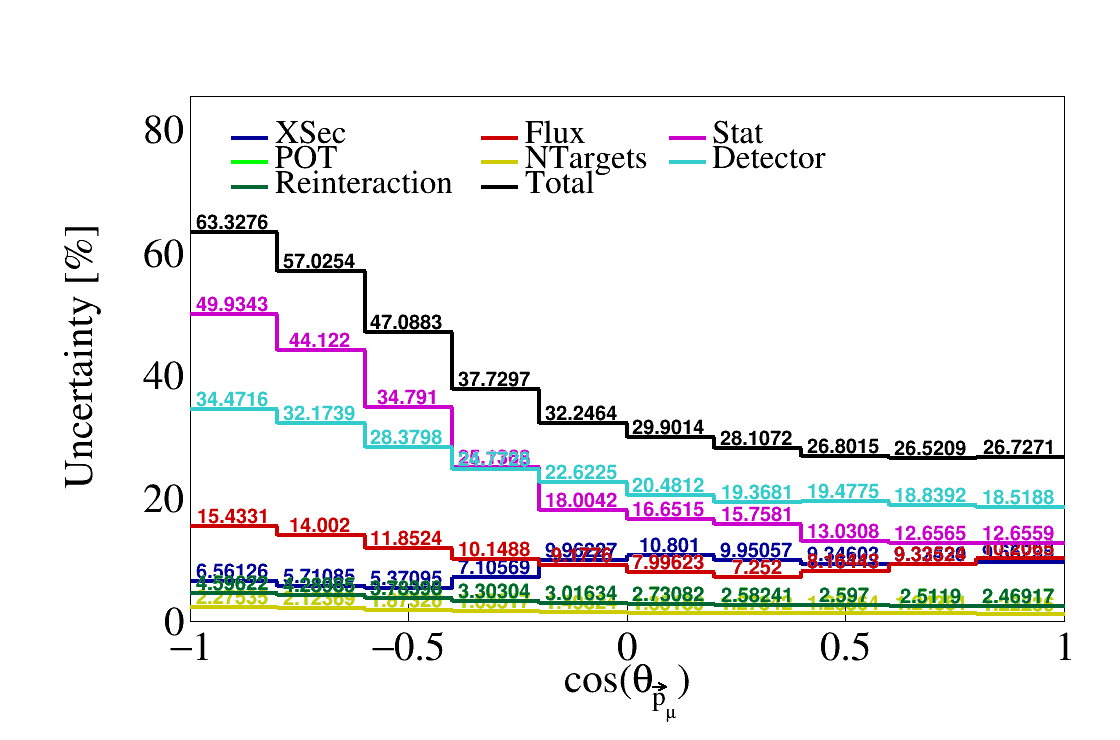
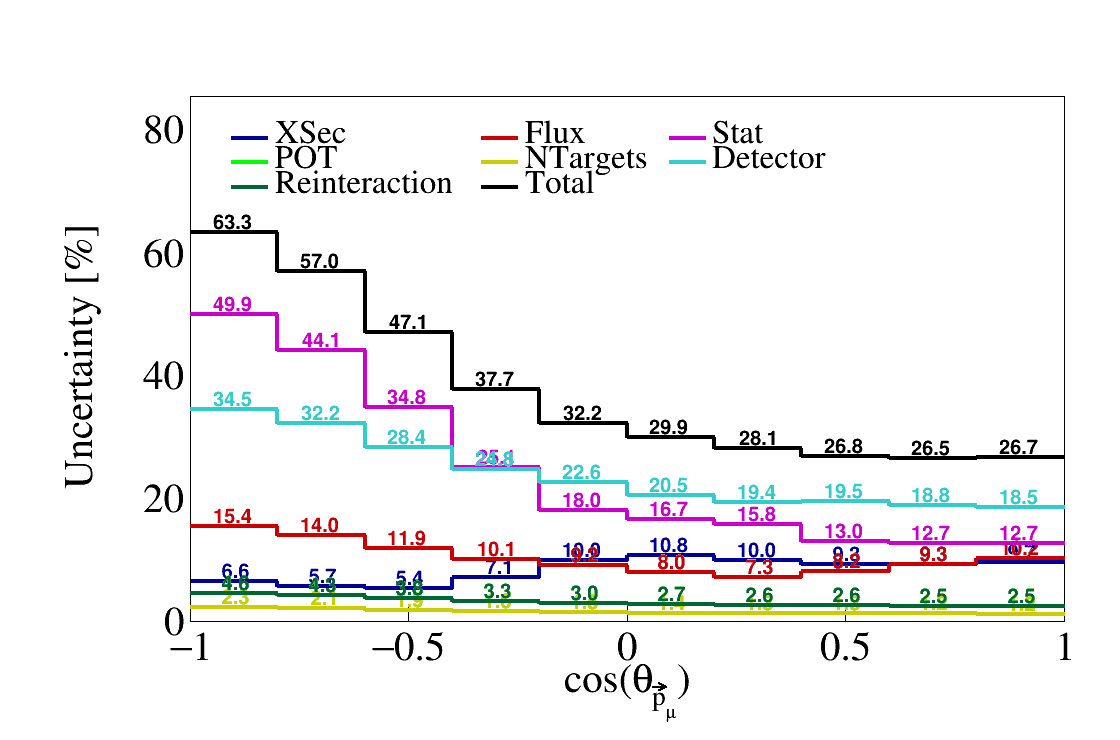
Declutter plots

diff --git a/CAFAnaAnalysis/Scripts/Unfold.cpp b/CAFAnaAnalysis/Scripts/Unfold.cpp
@@ -25,10 +25,12 @@ void Unfold() {
     // Set defaults and load tools
     TH1D::SetDefaultSumw2();
     TH2D::SetDefaultSumw2();
-    gStyle->SetOptStat(0);
 
     int FontStyle = 132;
     double TextSize = 0.06;	
+
+    gStyle->SetOptStat(0);
+    gStyle->SetPaintTextFormat("4.1f");
 
     Tools tools;
 
